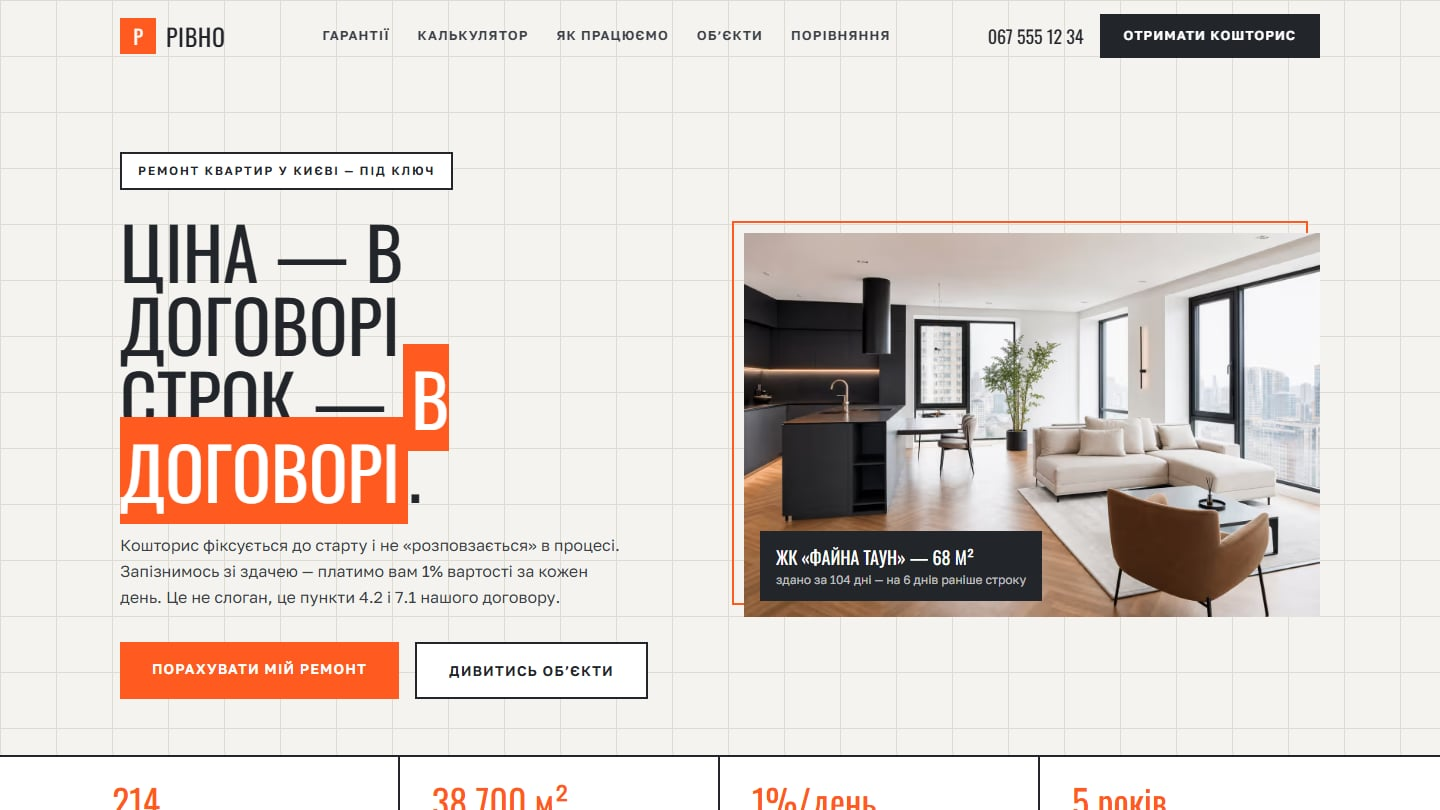
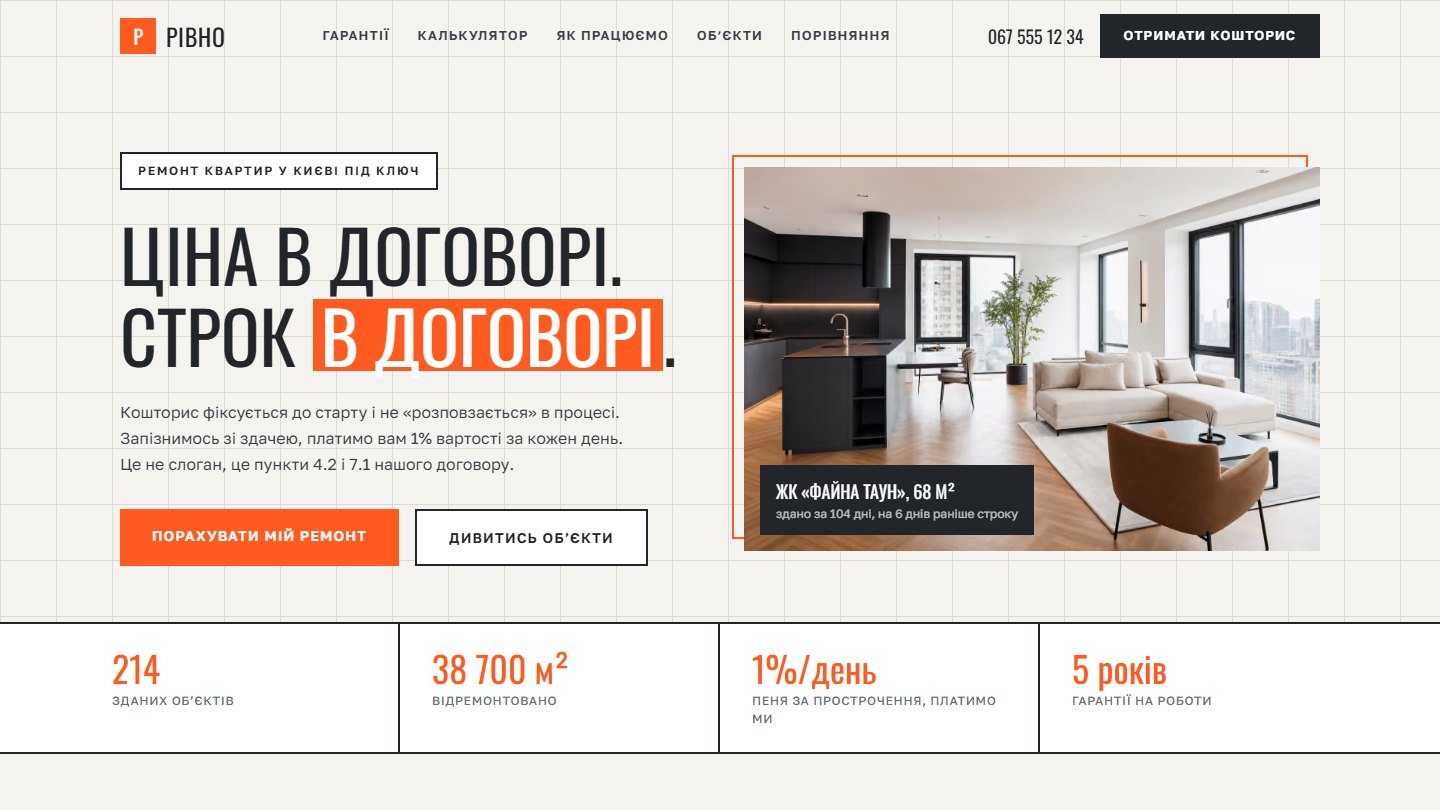
Add five live websites to the Websites list; ordered metadata; fresh RIVNO cover

diff --git a/README.md b/README.md
@@ -25,15 +25,20 @@ The goal is to show the work without exposing commercial source code. Each case 
 
 Private production code, secrets, customer data, proprietary prompts, and sensitive implementation details are excluded.
 
-## Local Website Portfolio
+## Live Websites
 
-Public and live: five local business website concepts for different service categories.
+Public and live: product and company websites, plus five local business website concepts for different service categories. Listed in the order shown on the portfolio site (`assets/websites.json`, `order`).
 
+- [Loomenio](https://www.loomenio.com/)
+- [Quantix Studio](https://www.quantixstudio.com/)
+- [Helpview](https://helpview.so/)
+- [Nothing Held Back (NHB)](https://www.nothingheldback.com/)
 - [KVARC Detailing](https://kvarc-detailing.vercel.app/)
-- [Emal Dental](https://emal-dental-ten.vercel.app/)
-- [MALVA Beauty](https://malva-beauty-studio.vercel.app/)
-- [RIVNO Renovation](https://rivno-renovation.vercel.app/)
 - [POPIL Restaurant](https://popil-restaurant.vercel.app/)
+- [MALVA Beauty](https://malva-beauty-studio.vercel.app/)
+- [Emal Dental](https://emal-dental-ten.vercel.app/)
+- [AstuteWheel](https://www.astutewheel.com.au/)
+- [RIVNO Renovation](https://rivno-renovation.vercel.app/)
 
 ## About
 
